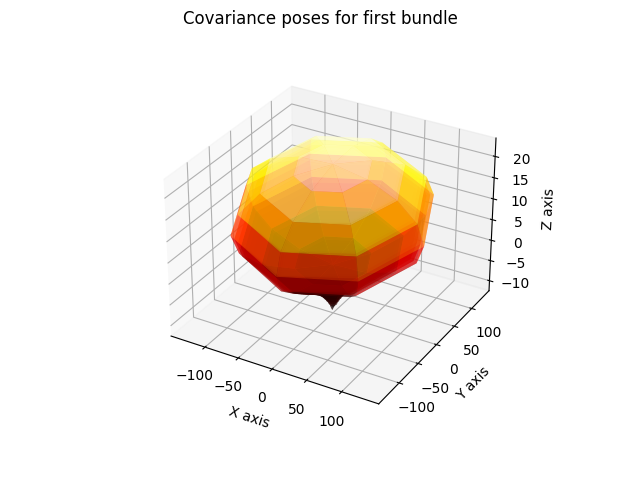
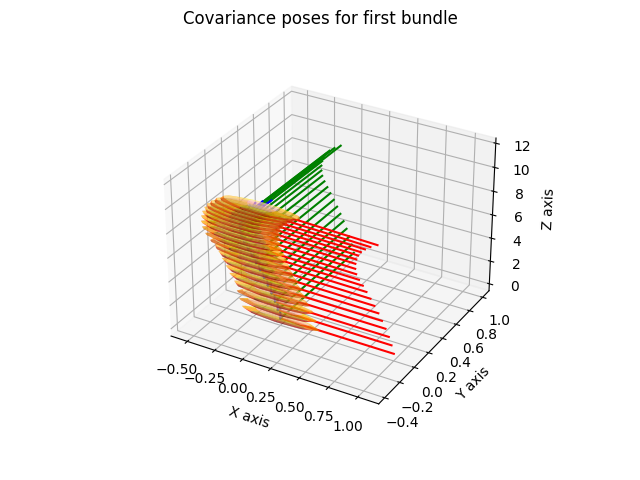
ex6 - works, mising cleanup

Changed region(s): [[0.25, 0.1875, 0.8438, 0.8438], [0.5938, 0.6562, 0.8125, 0.9062], [0.4375, 0.8438, 0.5625, 0.9062]]

diff --git a/VAN_ex/code/ex6.py b/VAN_ex/code/ex6.py
@@ -20,7 +20,7 @@ def show_feature_track(track, db):
     :param db: database
     :param num_frames: track length at least to choose
     """
-    fig, grid = plt.subplots(track.get_track_len(), 2)
+    fig, grid = plt.subplots(10, 2)
     fig.set_figwidth(4)
     fig.set_figheight(12)
     fig.suptitle(f"Track {track.get_id()}, with length of {track.get_track_len()} frames")
@@ -44,13 +44,15 @@ def show_feature_track(track, db):
         grid[i, 1].scatter(x_right, y_right, s=10, c="r")
         grid[i, 1].set_yticklabels([])
         i = i + 1
+        if i == 10:
+            break
     fig.savefig(f'{OUTPUT_DIR}track.png')
 
 def ex6_run():
     db = DataBase()
     db.read_database(utils.DB_PATH)
 
-    # track = db.get_track_obj(350160)
+    # track = db.get_track_obj(2138)
     # print(track.get_frames_dict())
     # show_feature_track(track, db)
 
@@ -59,25 +61,25 @@ def ex6_run():
     bundle_adjustment.optimize_all_windows()
 
 
-    # first_window = bundle_adjustment.get_first_window()
-    # marginals = first_window.get_marginals()
-    # # print(marginals)
-    # result = first_window.get_current_values()
-    # plot.plot_trajectory(0, result, marginals=marginals, scale=1, title="Covariance poses for first bundle",
-    #                      save_file=f"{OUTPUT_DIR}Poses rel_covs.png"
-    #                      # , d2_view=False
-    #                      ) #todo: fix graph
-    #
-    # first_camera = first_window.get_frame_pose3(first_window.get_first_keyframe_id())
-    # second_camera = first_window.get_frame_pose3(first_window.get_last_keyframe_id())
-    # relative_pose = first_camera.between(second_camera)
-    #
-    # print("Relative pose between first two keyframes:")
-    # print(first_window.get_frame_pose3(first_window.get_last_keyframe_id()))
-    # print("relative pose - with between method")
-    # print(relative_pose)
-    # print("Covariance:")
-    # print(first_window.get_covariance())
+    first_window = bundle_adjustment.get_first_window()
+    marginals = first_window.get_marginals()
+    # print(marginals)
+    result = first_window.get_current_values()
+    plot.plot_trajectory(0, result, marginals=marginals, scale=1, title="Covariance poses for first bundle",
+                         save_file=f"{OUTPUT_DIR}Poses rel_covs.png"
+                         # , d2_view=False
+                         ) #todo: fix graph
+
+    first_camera = first_window.get_frame_pose3(first_window.get_first_keyframe_id())
+    second_camera = first_window.get_frame_pose3(first_window.get_last_keyframe_id())
+    relative_pose = first_camera.between(second_camera)
+
+    print("Relative pose between first two keyframes:")
+    print(first_window.get_frame_pose3(first_window.get_last_keyframe_id()))
+    print("relative pose - with between method")
+    print(relative_pose)
+    print("Covariance:")
+    print(first_window.get_covariance())
 
     # 6.2
     # track = db.get_track_obj(350160)

diff --git a/VAN_ex/code/Bundle/BundleWindow.py b/VAN_ex/code/Bundle/BundleWindow.py
@@ -28,7 +28,9 @@ class BundleWindow:
         self._initial_estimate = self._init_initial_estimate()
         self._current_values = self._initial_estimate  # before optimization - current values is initial estimate
         self._factors = self._init_factors()
-        self._prior_factor = gtsam.PriorFactorPose3(gtsam.symbol(CAMERA_SYMBOL, first_keyframe_id), gtsam.Pose3(), gtsam.noiseModel.Unit.Create(6))
+        sigmas = np.array([(1 * np.pi / 180) ** 2] * 3 + [0.03, 0.003, 0.03])
+        cov = gtsam.noiseModel.Diagonal.Sigmas(sigmas=sigmas)
+        self._prior_factor = gtsam.PriorFactorPose3(gtsam.symbol(CAMERA_SYMBOL, first_keyframe_id), gtsam.Pose3(), cov)
         self._graph = self._init_graph()
         self._optimizer = gtsam.LevenbergMarquardtOptimizer(self._graph, self._initial_estimate)
 
@@ -87,7 +89,7 @@ class BundleWindow:
 
     def _init_factors(self):
         factors = dict()
-        cov = gtsam.noiseModel.Isotropic.Sigma(3, 1.0)
+        cov = gtsam.noiseModel.Isotropic.Sigma(3, 0.5)
 
         # print(f'len of tracks of window: {self._first_keyframe_id} - {self._last_keyframe_id}: {len(self._tracks)}')
         for track_id in self._tracks:

diff --git a/VAN_ex/code/PoseGraph.py b/VAN_ex/code/PoseGraph.py
@@ -1,4 +1,5 @@
 import gtsam
+import numpy as np
 
 from VAN_ex.code.Bundle.BundleWindow import CAMERA_SYMBOL
 
@@ -9,8 +10,10 @@ class PoseGraph:
         self._initial_estimate = self._init_initial_estimate()
         self._current_values = self._initial_estimate
         self._factors = self._init_factors()
+        sigmas = np.array([(1 * np.pi / 180) ** 2] * 3 + [1e-1, 1, 1e-1])
+        cov = gtsam.noiseModel.Diagonal.Sigmas(sigmas=sigmas)
         self._prior_factor =\
-            gtsam.PriorFactorPose3(gtsam.symbol(CAMERA_SYMBOL, 0), gtsam.Pose3(), gtsam.noiseModel.Unit.Create(6))
+            gtsam.PriorFactorPose3(gtsam.symbol(CAMERA_SYMBOL, 0), gtsam.Pose3(), cov)
         self._graph = self._init_graph()
         self._optimizer = gtsam.LevenbergMarquardtOptimizer(self._graph, self._initial_estimate)
 
